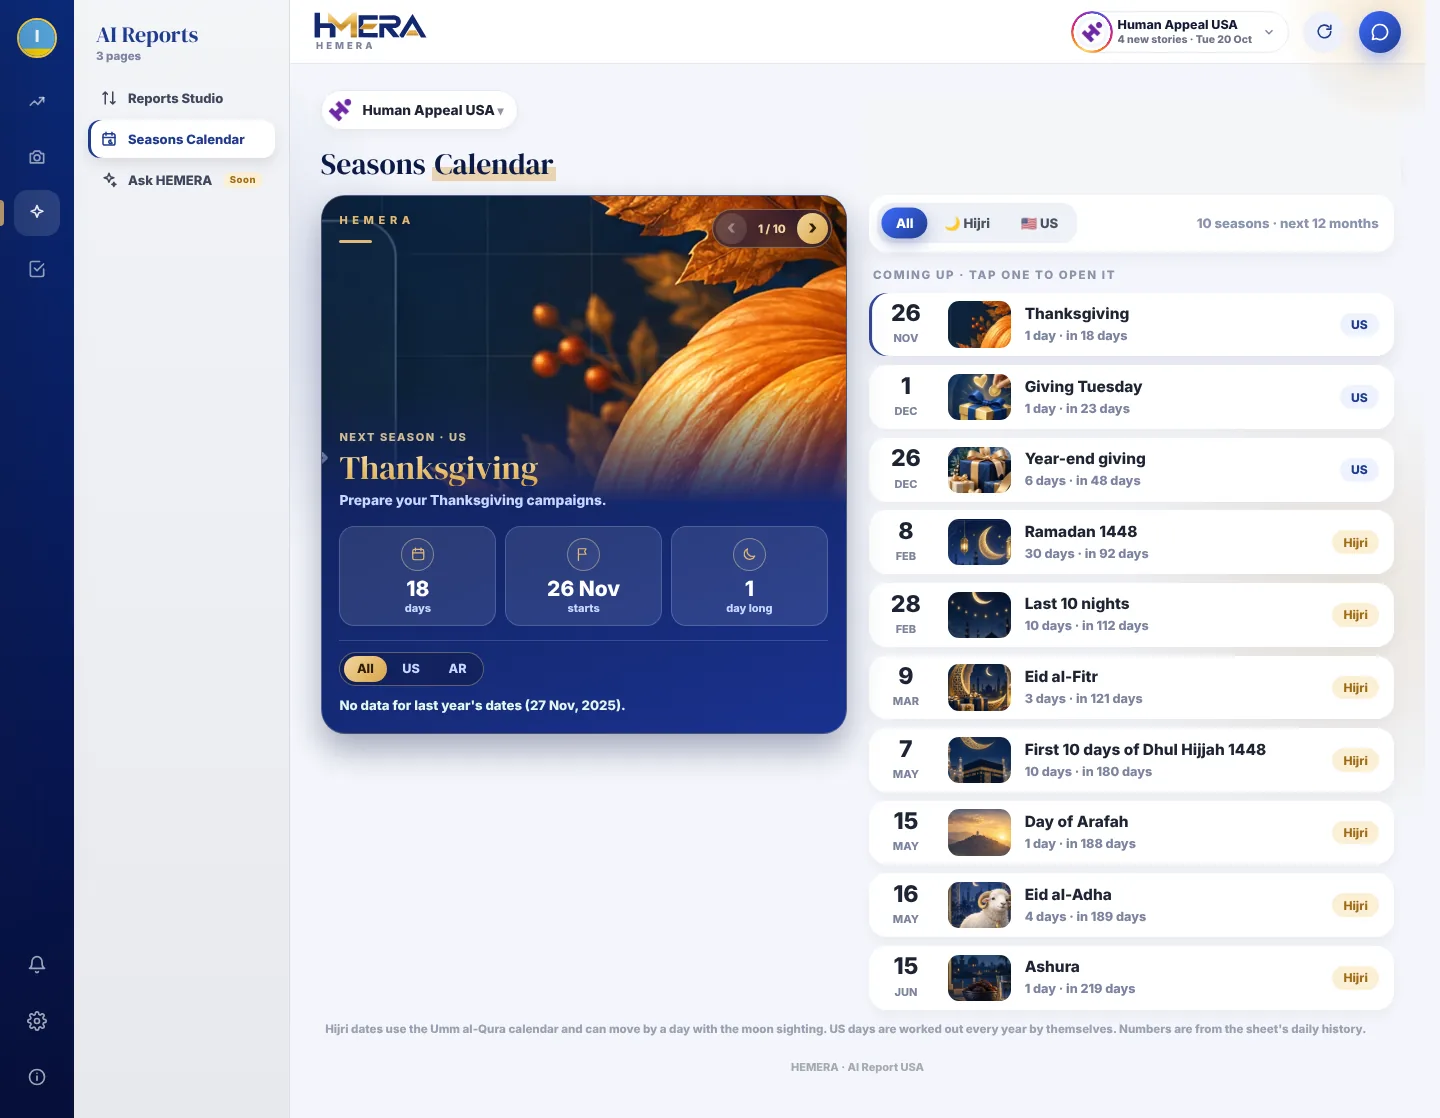
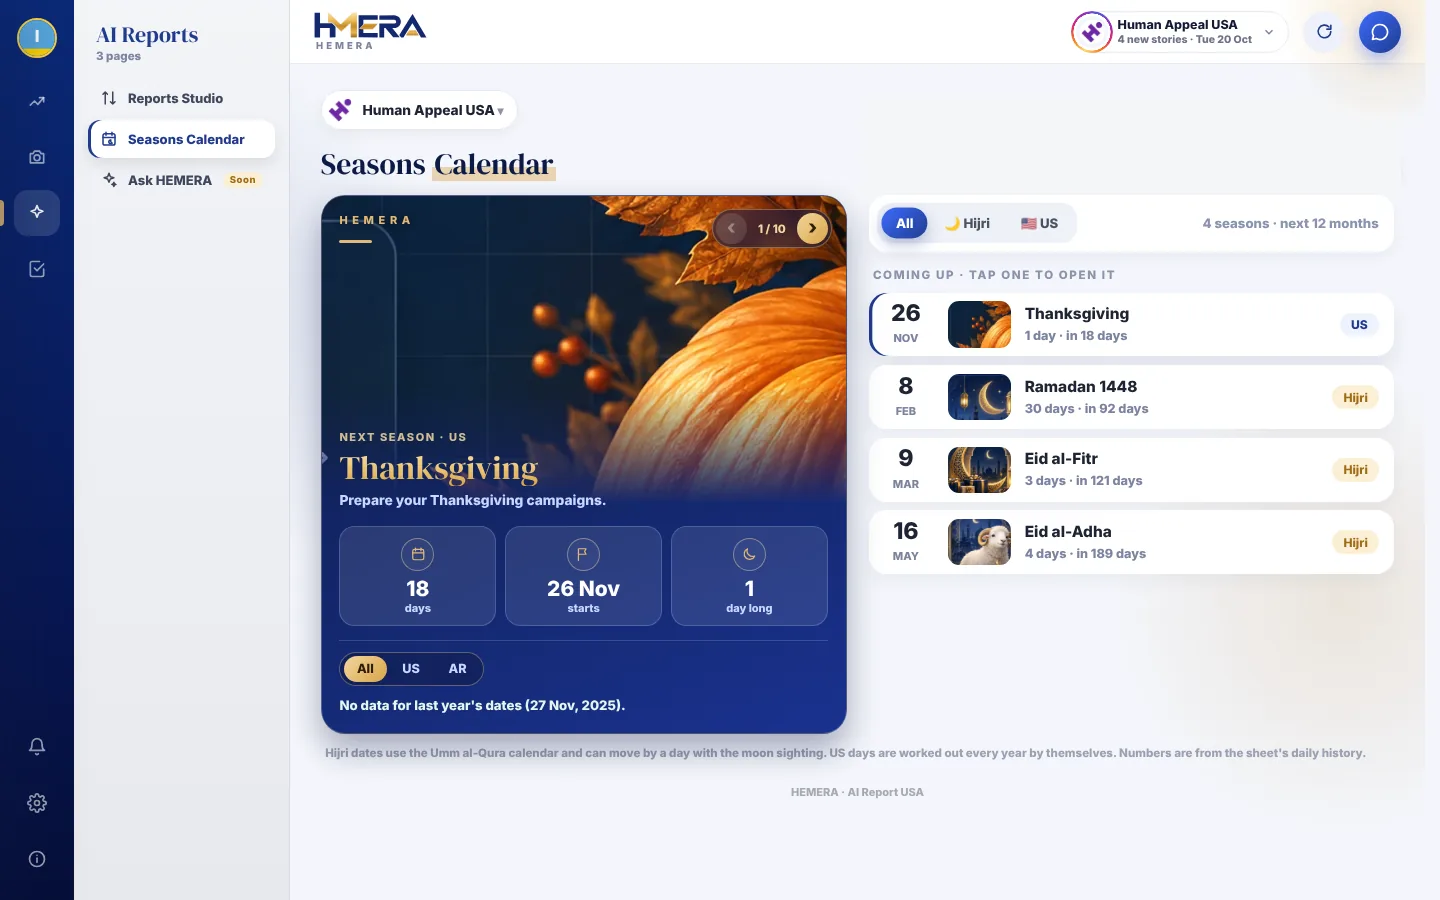
Download page: still Seasons laptop screen (Thanksgiving, Ramadan, the Eids); phone layout spacing and smaller guide iPhone
Claude-Session: https://claude.ai/code/session_01M72xkkZKEdziHXBkDeLETA

diff --git a/get/index.html b/get/index.html
@@ -441,6 +441,19 @@ h2{font-size:36px;letter-spacing:-.03em;line-height:1.08;margin:8px 0 10px;font-
  .g3 .tl3{grid-area:l;margin:14px 0 6px;max-width:460px}
  .g3 .gnote{grid-area:n;text-align:left;align-self:start;margin-top:0}
 }
+
+/* phone UX: same order as desktop, tighter and even spacing; the side phones peek in less; a smaller iPhone in the guide */
+@media (max-width:520px){
+ .hgrid{padding-top:6px}
+ .ht h1{margin:12px 0 12px}
+ .stage{--r:168px;margin:6px 0 14px}
+ .scene{height:calc(var(--pw) * 2.164 + 34px)}
+ .cap{margin-top:-6px}.cap-d{margin-top:4px;min-height:0}
+ .g3 .g3f{--w:196px}
+ .g3 .g3s{padding:16px 0 18px}
+ .g3 .g3sh{width:210px}
+ .g3 .tl3{margin:0 auto 8px}
+}
 </style>
 </head>
 <body>
@@ -502,7 +515,7 @@ h2{font-size:36px;letter-spacing:-.03em;line-height:1.08;margin:8px 0 10px;font-
       <div><div class="lap" id="lap"><div class="lid"><div class="lbar"><i></i><i></i><i></i><span>sekna-app.web.app</span></div><div class="scr" id="lapScr">
         <img class="on" src="/get/shots/desk-daily.webp?v=20" alt="Daily Performance on a laptop" loading="lazy">
         <img src="/get/shots/desk-month.webp?v=20" alt="Monthly Progress on a laptop" loading="lazy">
-        <img src="/get/shots/desk-seasons.webp?v=20" alt="Seasons Calendar on a laptop" loading="lazy">
+        <img src="/get/shots/desk-seasons.webp?v=21" alt="Seasons Calendar on a laptop" loading="lazy">
       </div></div><div class="base"></div><div class="lap-sh"></div></div>
       <div class="ltabs" id="lapTabs"><button type="button" class="on">Daily<em></em></button><button type="button">Monthly<em></em></button><button type="button">Seasons<em></em></button></div></div>
       <div class="txt">

diff --git a/source/tools/shots3.js b/source/tools/shots3.js
@@ -15,5 +15,8 @@ const fake=()=>{const split=[['Search Brand',.10,6.2],['Search Non-Brand',.6,2.4
  const d=await page(b,1440,900,1);await d.addStyleTag({content:'html,body{overflow-x:hidden!important}'});await d.evaluate(fake);
  for(const [n,t] of [['desk-daily','overview'],['desk-days','days'],['desk-month','channel'],['desk-studio','months'],['desk-seasons','seasons']]){
   await go(d,t=>{switchDashboardTab(t);if(t==='days')setDayView('plan');if(t==='months')setMonthMode('one')},t);await d.evaluate(()=>window.scrollTo(0,0));await d.waitForTimeout(500);
+  if(n==='desk-seasons'){ // a still screen: only Ramadan, the Eids and Thanksgiving, no scrolling
+   await d.evaluate(()=>{document.querySelectorAll('#seasonsPanel .ssd-row').forEach(r=>{const t=(r.querySelector('.n b')||r).textContent.trim();if(!/^(Thanksgiving|Ramadan|Eid al-Fitr|Eid al-Adha)/.test(t))r.style.display='none'});const c=document.querySelector('#seasonsPanel .ssd-r');if(c)c.innerHTML=c.innerHTML.replace(/10 seasons/,'4 seasons')});
+   await d.waitForTimeout(300);await d.screenshot({path:O+n+'.png'});continue}
   const H=await d.evaluate(()=>{const h=document.documentElement.scrollHeight;['dkRail','dkPanel'].forEach(i=>{const e=document.getElementById(i);if(e){e.style.position='absolute';e.style.bottom='auto';e.style.height=h+'px'}});return h});await d.waitForTimeout(200);await d.screenshot({path:O+n+'.png',fullPage:true,clip:{x:0,y:0,width:1440,height:H}});await d.evaluate(()=>['dkRail','dkPanel'].forEach(i=>{const e=document.getElementById(i);if(e){e.style.position='';e.style.bottom='';e.style.height=''}}))}
  await b.close()})();
